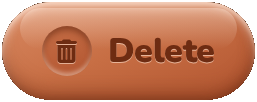
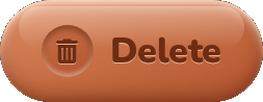
Fix clipped modal buttons with transparent clay PNG assets.
Regenerate button images without backgrounds, switch event detail actions to image buttons, and exclude modal image buttons from footer styling that caused clipping.

diff --git a/src/index.tsx b/src/index.tsx
@@ -2466,36 +2466,10 @@ app.get('/', (c) => {
             user-select: none;
           }
 
-          .event-detail-btn-edit {
-            width: 92px;
+          .event-detail-btn .modal-img {
             height: 44px;
-            background-image: url('/static/images/buttons/edit.png') !important;
-            background-repeat: no-repeat;
-            background-position: center;
-            background-size: contain;
-            color: transparent;
-          }
-
-          .event-detail-btn-edit:hover {
-            filter: brightness(1.03);
-          }
-
-          .event-detail-btn-delete {
-            width: 111px;
-            height: 44px;
-            background-image: url('/static/images/buttons/delete.png') !important;
-            background-repeat: no-repeat;
-            background-position: center;
-            background-size: contain;
-            color: transparent;
-          }
-
-          .event-detail-btn-delete:hover {
-            filter: brightness(1.03);
-          }
-
-          .event-detail-btn i {
-            display: none;
+            width: auto;
+            display: block;
           }
 
           /* Modal action buttons (Edit modal + delete confirm) */
@@ -3390,7 +3364,8 @@ app.get('/', (c) => {
             padding: 0;
             border-radius: 28px;
             background: rgba(36,31,27,0.68) !important;
-            overflow: hidden;
+            overflow: hidden !important;
+            overflow-y: hidden !important;
           }
 
           .event-detail-header {
@@ -3587,48 +3562,35 @@ app.get('/', (c) => {
 
           .event-detail-footer {
             flex: 0 0 auto;
-            padding: 0 30px 28px;
+            display: flex;
+            justify-content: flex-end;
+            align-items: center;
+            padding: 16px 30px 32px;
             border-top: 0;
-            gap: 10px;
+            gap: 12px;
+            min-height: 72px;
+            overflow: visible;
           }
 
           .event-detail-btn {
+            flex: 0 0 auto;
             padding: 0 !important;
-            border-radius: 999px !important;
             border: 0 !important;
             background: transparent !important;
             box-shadow: none !important;
-            font-size: 14px;
             line-height: 0;
-            transition: transform 0.2s ease, filter 0.2s ease;
+            overflow: visible;
+            transition: filter 0.2s ease;
           }
 
           .event-detail-btn:hover {
-            transform: translateY(-1px);
-          }
-
-          .event-detail-btn-edit {
-            width: 92px;
-            height: 44px;
-            background-image: url('/static/images/buttons/edit.png') !important;
-            background-repeat: no-repeat;
-            background-position: center;
-            background-size: contain;
-            color: transparent;
-          }
-
-          .event-detail-btn-delete {
-            width: 111px;
-            height: 44px;
-            background-image: url('/static/images/buttons/delete.png') !important;
-            background-repeat: no-repeat;
-            background-position: center;
-            background-size: contain;
-            color: transparent;
-          }
-
-          .event-detail-btn-delete:hover {
             filter: brightness(1.03);
+          }
+
+          .event-detail-btn .modal-img {
+            height: 44px;
+            width: auto;
+            display: block;
           }
 
           #editEventModal .modal-content {
@@ -3820,15 +3782,15 @@ app.get('/', (c) => {
 
           #editEventForm > .flex.justify-end {
             position: sticky;
-            bottom: -28px;
+            bottom: 0;
             z-index: 3;
             display: flex !important;
             justify-content: flex-end !important;
             align-items: center !important;
             gap: 12px !important;
             width: calc(100% + 52px);
-            margin: 18px -26px -28px !important;
-            padding: 14px 26px 16px;
+            margin: 18px -26px 0 !important;
+            padding: 14px 26px 22px;
             border-top: 1px solid rgba(255,255,255,0.10);
             background: linear-gradient(90deg, rgba(36,31,27,0.88), rgba(60,52,46,0.78));
             backdrop-filter: blur(24px) saturate(140%);
@@ -3836,7 +3798,7 @@ app.get('/', (c) => {
             box-shadow: 0 -14px 30px rgba(0,0,0,0.18), inset 0 1px 0 rgba(255,255,255,0.08);
           }
 
-          #editEventForm > .flex.justify-end button {
+          #editEventForm > .flex.justify-end button:not(.modal-img-btn) {
             flex: 0 0 auto;
             min-width: 104px;
             min-height: 40px;
@@ -3847,17 +3809,24 @@ app.get('/', (c) => {
             transition: transform 0.2s ease, background 0.2s ease, box-shadow 0.2s ease;
           }
 
-          #editEventForm > .flex.justify-end button:hover {
+          #editEventForm > .flex.justify-end button:not(.modal-img-btn):hover {
             transform: translateY(-1px);
           }
 
-          #editEventForm > .flex.justify-end button[type="button"] {
+          #editEventForm > .flex.justify-end .modal-img-btn {
+            min-width: 0 !important;
+            min-height: 0 !important;
+            border-radius: 0 !important;
+            overflow: visible;
+          }
+
+          #editEventForm > .flex.justify-end button[type="button"]:not(.modal-img-btn) {
             background: rgba(255,255,255,0.08) !important;
             color: var(--ncpa-text-secondary) !important;
             border: 1px solid var(--ncpa-border-strong);
           }
 
-          #editEventForm > .flex.justify-end button[type="button"]:hover {
+          #editEventForm > .flex.justify-end button[type="button"]:not(.modal-img-btn):hover {
             background: rgba(255,255,255,0.13) !important;
             color: var(--ncpa-text-bright) !important;
           }

diff --git a/public/static/app.js b/public/static/app.js
@@ -992,11 +992,11 @@ function openEventModal(event) {
 
   if (isAuthenticated) {
     footer.innerHTML = `
-      <button type="button" onclick="deleteEventFromModal(${event.id})" class="event-detail-btn event-detail-btn-delete">
-        <i class="fas fa-trash"></i>Delete
+      <button type="button" onclick="deleteEventFromModal(${event.id})" class="event-detail-btn modal-img-btn" aria-label="Delete">
+        <img src="/static/images/buttons/delete.png" alt="Delete" class="modal-img">
       </button>
-      <button type="button" onclick="editEventFromModal(${event.id})" class="event-detail-btn event-detail-btn-edit">
-        <i class="fas fa-edit"></i>Edit
+      <button type="button" onclick="editEventFromModal(${event.id})" class="event-detail-btn modal-img-btn" aria-label="Edit">
+        <img src="/static/images/buttons/edit.png" alt="Edit" class="modal-img">
       </button>
     `;
   } else {
